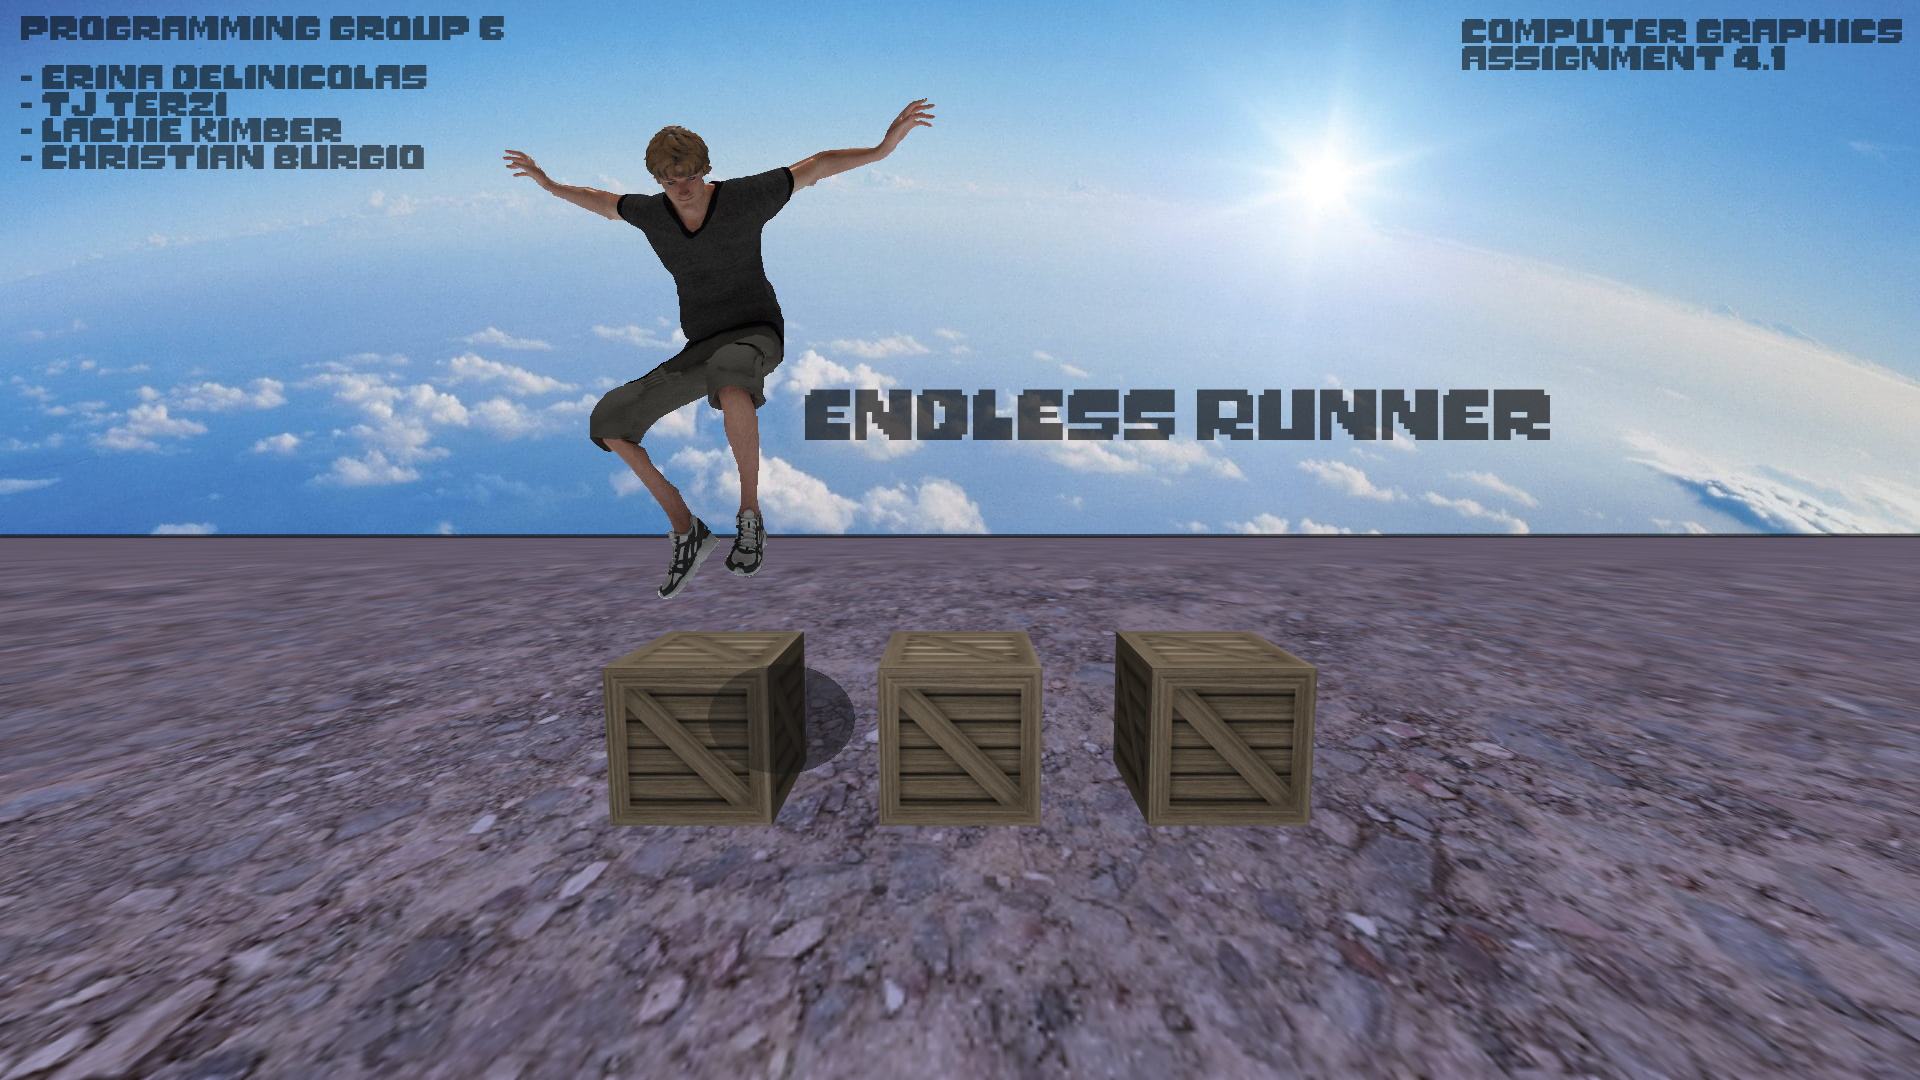
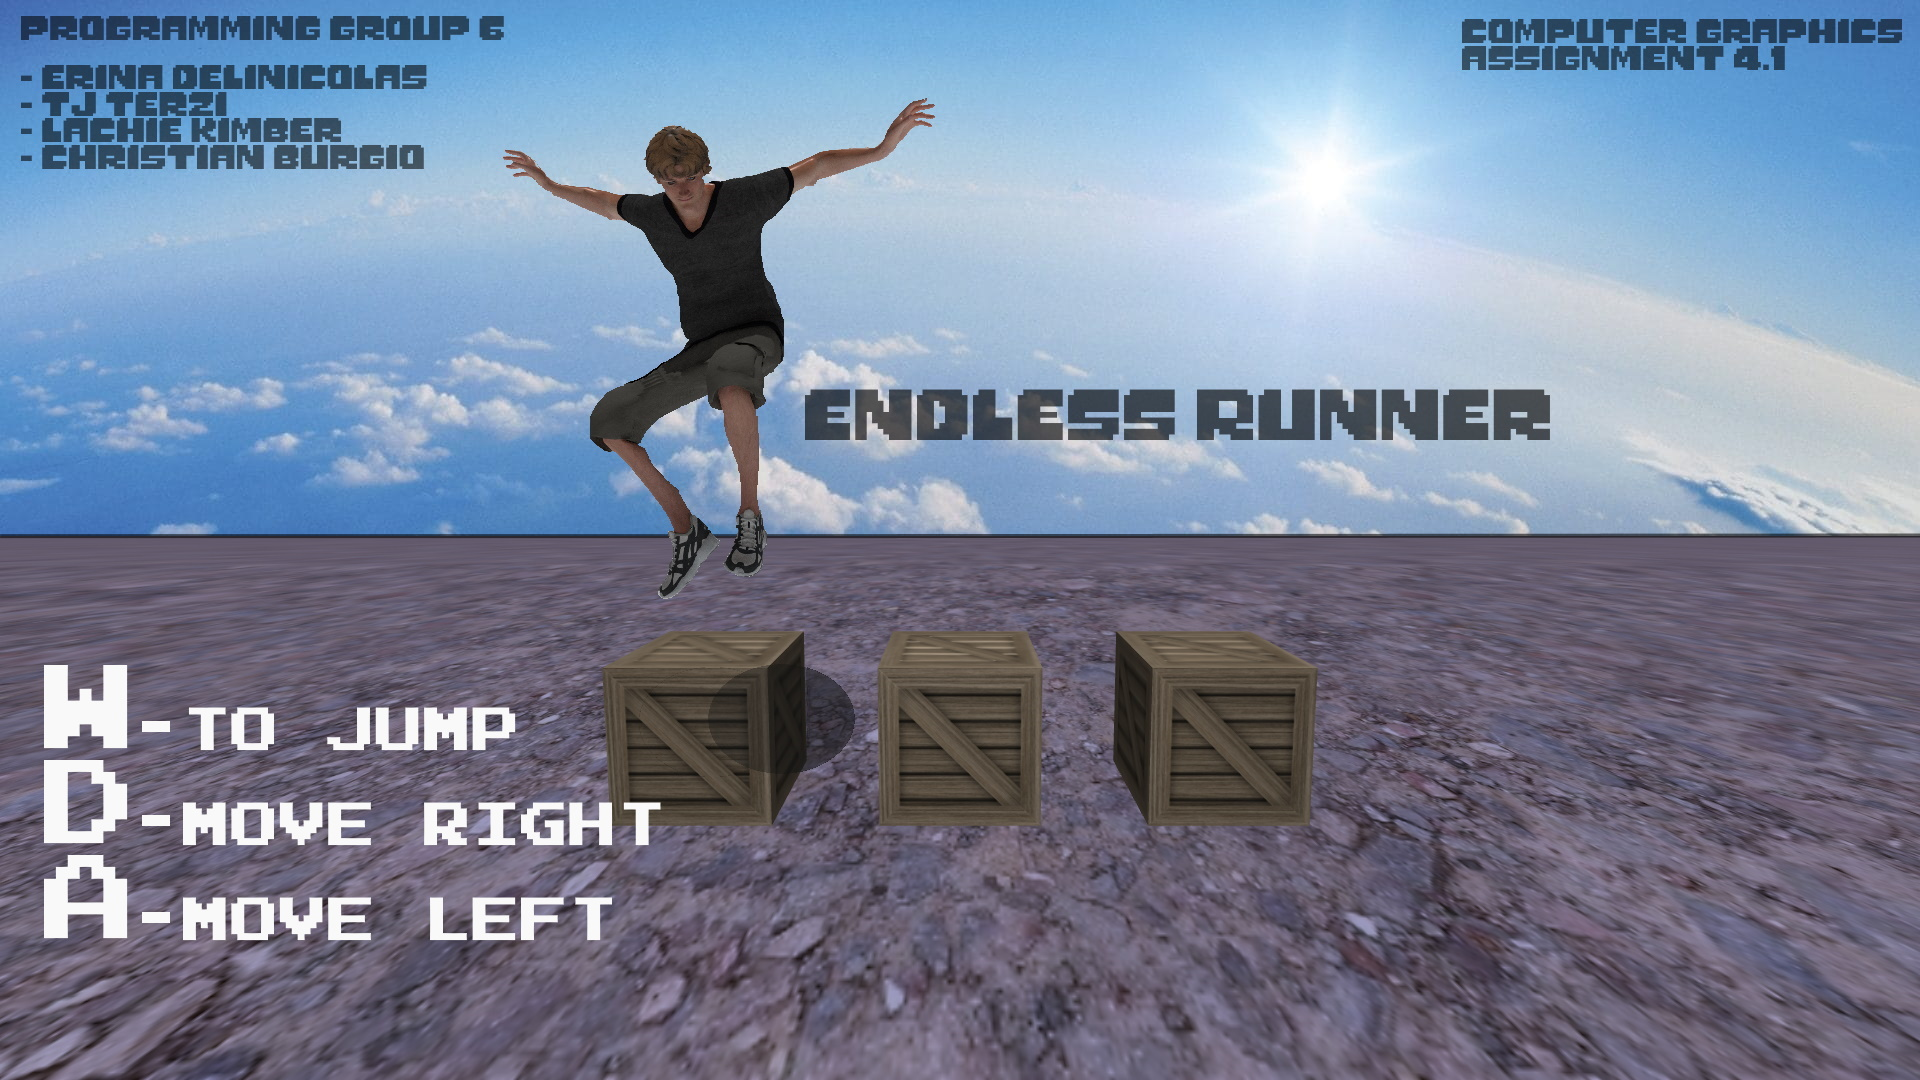
Cleaned up some of the menu problems, added controls to the main screen

Changed region(s): [[0.0, 0.6111, 0.2812, 0.8861], [0.2188, 0.7333, 0.3438, 0.7944], [0.2188, 0.825, 0.3125, 0.8861]]

diff --git a/main.css b/main.css
@@ -18,7 +18,7 @@ body {
     width: 100%;
     height: 100%;
 
-    background-color: rgba(0,0,0,0.5);
+    background-color: rgba(0,0,0,0);
 
 }
 
@@ -47,7 +47,7 @@ body {
     text-align: center;
 
     cursor: pointer;
-
+    background-color: rgba(255, 255, 255, 0);
 }
 
 #score {
@@ -144,7 +144,7 @@ a#startGame {
 #deathScreen {
     width : 100%;
     height : 100%;
-    background-color: rgba(0,0,0,0.5);
+    background-color: rgba(0,0,0,0.7);
     opacity : 1;
     position : absolute;
     top : 0;
@@ -154,9 +154,21 @@ a#startGame {
     display : none;
 }
 
-a#deathContent{
-    width : 300px;
-    height: 200px;
-    background-color: white; 
-    align-items: center;
+.Dcontainer .btn {
+    position: absolute;
+    bottom: 50px;
+    left: 50%;
+    transform: translate(-50%, 0);
+    background-color: rgb(255, 255, 255);
+    color: rgb(0, 0, 0);
+    font-size: 16px;
+    padding: 12px 24px;
+    border: none;
+    cursor: pointer;
+    border-radius: 5px;
+  
 }
+.Dcontainer .btn:hover {
+    background-color: rgba(0, 0, 0, 0.5);
+    color: white;
+  }

diff --git a/index.html b/index.html
@@ -23,35 +23,36 @@
 			<div class="container">
 				
 				<!--<h1>Endless Runner</h1>-->
+				
 				<div class="instructionImage">
 					<img src="resources/main.jpg" alt="Main" width=100% height=auto>
 				<a id="startGame">
 					<div class="btn">Start Game</div>
 				</a></div>
 				
+
 			</div>
 		</div>
 
 		<div id="deathScreen">
 			<a id="restartGame">
-			<img src="resources/death.png" alt="Main" width=100% height=auto >
-			<div class="btn">Restart</div>
+				<img src="resources/death.png" alt="Main" width=100% height=auto >
+				<div class = "Dcontainer">
+			
+			<div class="btn" onClick="window.location.reload();">Restart</div>
 			</a>
-
+			</div>
 		</div>
 
 
 		
 			
 
-		<!--
-		 <div id="blocker">
+		
+		 
 
-			<div id="instructions">
-				(W, A, S, D = Move, MOUSE = Look around)
-			</div>
-
-		</div> -->
+			
+		
 
 
 	</body>
